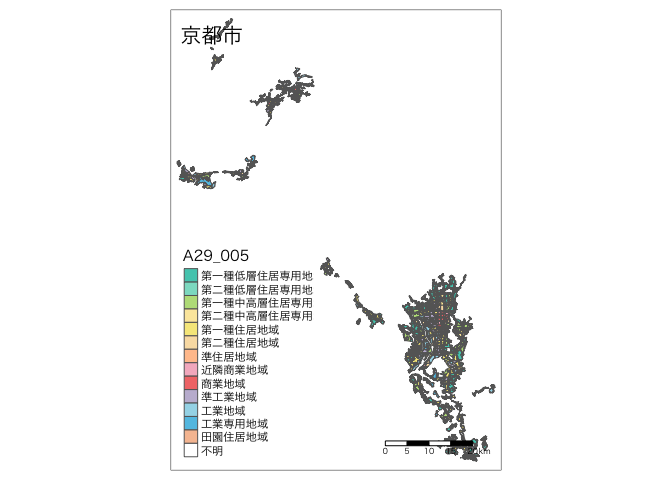
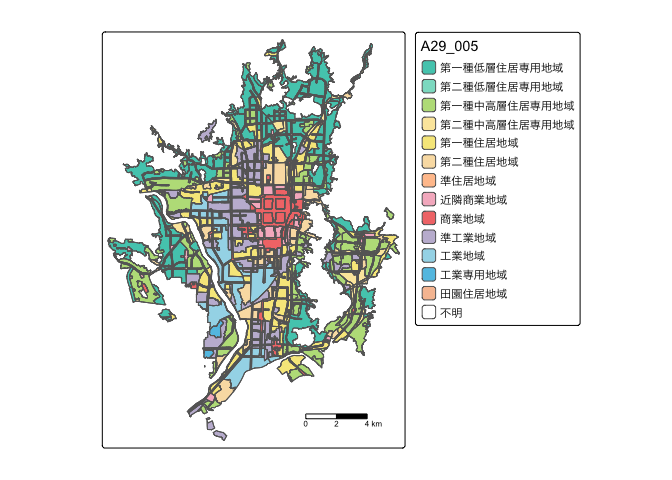
Added DOI badge

Changed region(s): [[0.1562, 0.0, 0.875, 1.0], [0.8438, 0.6562, 0.875, 0.6875]]

diff --git a/README.md b/README.md
@@ -4,6 +4,8 @@
 # geojp
 
 <!-- badges: start -->
+
+[![DOI](https://zenodo.org/badge/527063683.svg)](https://zenodo.org/doi/10.5281/zenodo.10205233)
 <!-- badges: end -->
 
 The goal of geojp is to provide an easy access to various geographical
@@ -28,7 +30,7 @@ library(geojp)
 ## Census
 
 Load census boundary information. Specify the prefecture code
-(code\_pref) and municipality code (code\_muni). Here is an example for
+(code_pref) and municipality code (code_muni). Here is an example for
 Osaki City (215) in Miyagi Prefecture (4).
 
 ``` r
@@ -92,7 +94,7 @@ attr(sfCensus2, "sourceURL")
 ## National Land Information
 
 Load the zoning information from the National Land Information. Specify
-the prefecture code (code\_pref) and municipality code (code\_muni). The
+the prefecture code (code_pref) and municipality code (code_muni). The
 2011 and 2019 versions are available, so we will try the 2011 version
 this time.
 
@@ -103,14 +105,8 @@ Service](https://nlftp.mlit.go.jp/ksj/index.html).
 The return value is an `sf` object.
 
 ``` r
-sfYouto <- geojp::read_landnuminfo_landuse(code_pref = 26, code_muni = 100, year = 2011)
+sfYouto <- geojp::read_landnuminfo_landuse(code_pref = 26, code_muni = 100, year = 2019)
 ```
-
-    #> [1] "Downloaded the file and saved in https://nlftp.mlit.go.jp/ksj/gml/data/A29/A29-11/A29-11_26_GML.zip"
-    #> Warning in utils::unzip(strLNIZip, files = SHPFiles, exdir = strTempDir): zip フ
-    #> ァイル中には、要求されたファイルは存在しません
-    #> Warning in st_collection_extract.sf(sfLNI, type = "POLYGON"): x is already of
-    #> type POLYGON.
 
 The `A29_004` and `A29_005` columns, which indicate the zoning class,
 are of type factor.
@@ -132,7 +128,7 @@ source. The source can be retrieved as follows
 
 ``` r
 attr(sfYouto, "sourceName")
-#> [1] "「国土数値情報（用途地域データ）」（国土交通省）"
+#> [1] "「国土数値情報（行政区域データ）」（国土交通省）"
 attr(sfYouto, "sourceURL")
 #> [1] "https://nlftp.mlit.go.jp/ksj/gml/datalist/KsjTmplt-A29-v2_1.html"
 ```
@@ -155,24 +151,29 @@ specification is required only for macOS.
 
 ``` r
 library(tmap)
+#> 
+#> Attaching package: 'tmap'
+#> The following object is masked from 'package:datasets':
+#> 
+#>     rivers
 # Create a map.
 myTm <- tm_shape(sfYouto) +
-          tm_polygons(col = attr(sfYouto, "col"), palette = attr(sfYouto, "palette"), alpha = 0.8) + 
+          tm_polygons(fill = attr(sfYouto, "col"), 
+                      palette = attr(sfYouto, "palette"), alpha = 0.8) + 
            tm_borders()
+#> Deprecated tmap v3 code detected. Code translated to v4
 myTm <- myTm +
       tm_scale_bar() +
-      tm_layout(title = "京都市",
-                legend.outside = FALSE, 
-                fontfamily = "HiraginoSans-W3")
+      tm_layout(tm_title = "京都市",
+                legend.text.fontfamily = "HiraginoSans-W3")
+#> Warning: As of version 4.0, tm_scale_bar has been renamed to tm_scalebar and is
+#> therefore deprecated
 ```
 
 Display the plot.
 
 ``` r
 myTm
-#> Warning: One tm layer group has duplicated layer types, which are omitted. To
-#> draw multiple layers of the same type, use multiple layer groups (i.e. specify
-#> tm_shape prior to each of them).
 ```
 
 <img src="man/figures/README-unnamed-chunk-14-1.png" width="100%" />
@@ -193,28 +194,27 @@ standard map in tiled format as a base map.
 ``` r
 library(tmap)
 tmap_mode("view")
-#> tmap mode set to interactive viewing
+#> tmap mode set to 'view'
 # Create a map.
 myTm <- tm_shape(sfCensus2) +
           tm_polygons("JINKO", alpha = 0.8) 
+#> Deprecated tmap v3 code detected. Code translated to v4
 myTm <- myTm +
           tm_shape(sfYouto) +
-          tm_polygons(col = attr(sfYouto, "col"), palette = attr(sfYouto, "palette"), alpha = 0.8) + 
+          tm_polygons(fill = attr(sfYouto, "col"), 
+                      palette = attr(sfYouto, "palette"), alpha = 0.8) + 
            tm_borders()
+#> Deprecated tmap v3 code detected. Code translated to v4
 myTm <- myTm +
       tm_basemap(server = "https://cyberjapandata.gsi.go.jp/xyz/std/{z}/{x}/{y}.png")
 myTm <- myTm +
       tm_scale_bar() +
-      tm_layout(title = "京都市",
-                legend.outside = FALSE, 
-                fontfamily = "HiraginoSans-W3")
+      tm_layout(tm_title = "京都市",
+                legend.text.fontfamily = "HiraginoSans-W3")
+#> Warning: As of version 4.0, tm_scale_bar has been renamed to tm_scalebar and is
+#> therefore deprecated
 myTm
-#> Warning: One tm layer group has duplicated layer types, which are omitted. To
-#> draw multiple layers of the same type, use multiple layer groups (i.e. specify
-#> tm_shape prior to each of them).
 ```
-
-<img src="man/figures/README-unnamed-chunk-16-1.png" width="100%" />
 
 ## mapview
 
@@ -223,5 +223,3 @@ library(mapview)
 mapviewOptions(fgb = FALSE) # needed when creating web pages
 mapview(sfYouto[attr(sfYouto, "col")], col.regions = attr(sfYouto, "palette"), fgb = FALSE)
 ```
-
-<img src="man/figures/README-unnamed-chunk-17-1.png" width="100%" />
